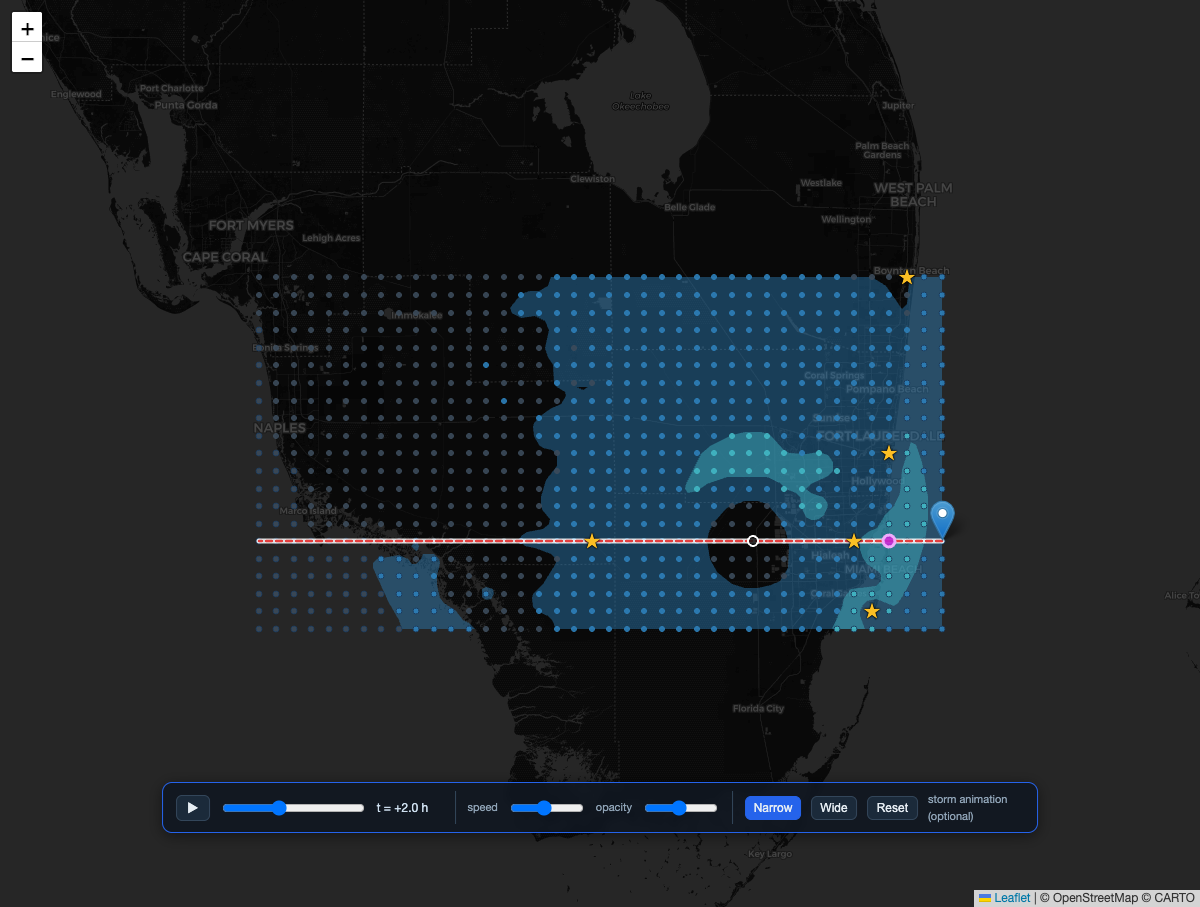
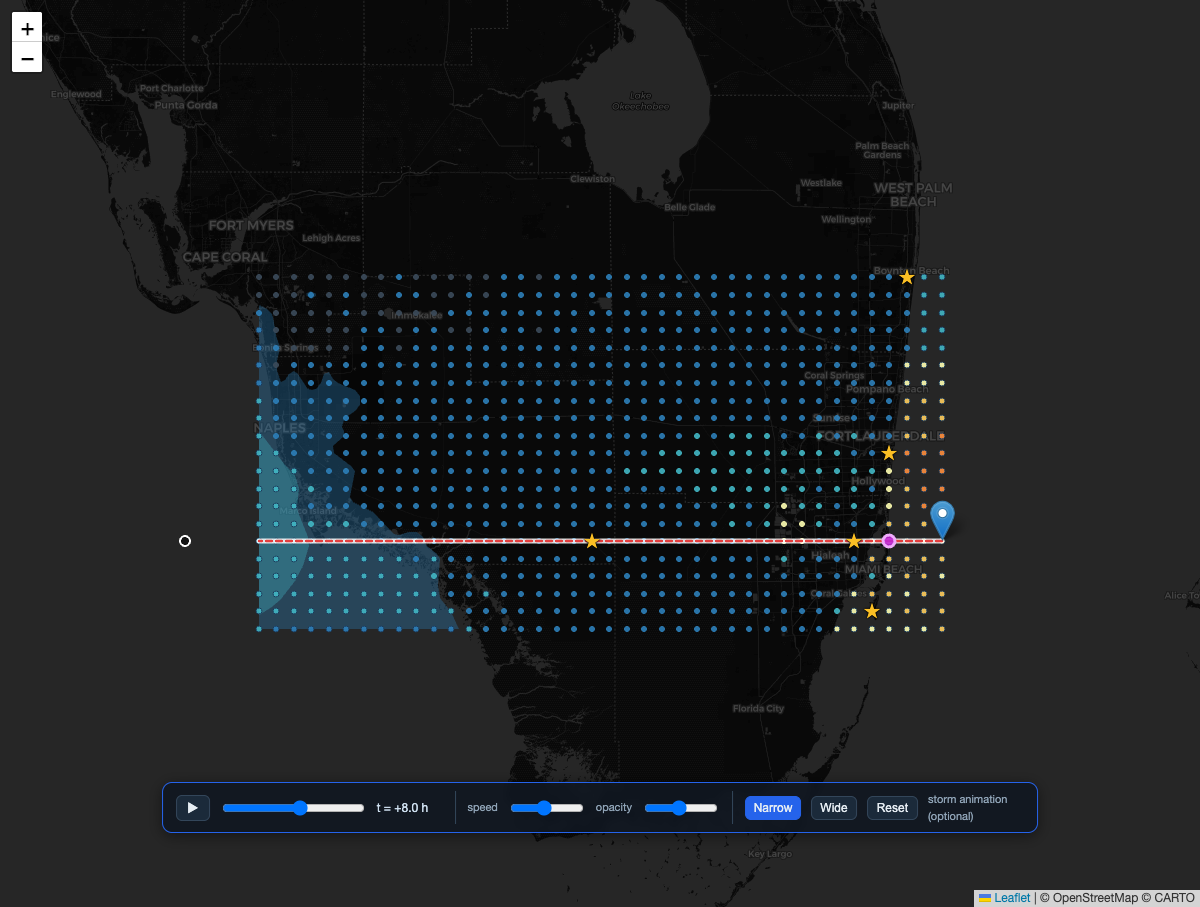
Storm animation: dots paint the running-max peak footprint
Per the meteorologist: the dots should build up the PEAK footprint as the storm
crosses, not show the instantaneous wind (which goes calm again once the storm
passes). Changed the per-frame dot color from instantaneous field[k] to the
running maximum over frames 0..i, so each vertex lights up when the eyewall
arrives and RETAINS its peak. After the storm clears, the dot lattice equals the
static peak-wind footprint (orange near the track, fading north/west). The contour
stays instantaneous so you still watch the storm move.

Verified (tests/auto/test_anim.py): dot (9,6) is calm base at t=-12, lights to
#ffffb2 mid-passage, and STAYS #ffffb2 at t=+24, equal to the static peak color at
that vertex (an instantaneous dot would go calm again). End-frame footprint
screenshot matches the reference. Docs + figure updated.

Changed region(s): [[0.2158, 0.2778, 0.8017, 0.71], [0.2158, 0.8644, 0.2775, 0.8953]]

diff --git a/web/anim.js b/web/anim.js
@@ -172,10 +172,14 @@ function animRenderFrame(i) {
   const thr = WIND_STOPS.map(s => s[0]).filter(v => v > 0);
   state.animContour = buildContourLayer(ext.grid, F, thr, windColor,
     { lattice: ext.lattice, upsample: ANIM.upsample, fillOpacity: ANIM.fillOpacity, pane: "animField" }).addTo(state.map);
-  // dynamic dots: recolor each grid vertex by the INSTANTANEOUS wind at this frame,
-  // so the lattice updates live as the storm passes (offshore ext points have gi<0)
+  // dots PAINT the peak footprint: each vertex shows its running-max wind up to the
+  // current time, so it lights up when the eyewall arrives and RETAINS its peak.
+  // After the storm clears, the lattice equals the static peak-wind footprint (the
+  // contour above stays instantaneous, so you still watch the storm cross).
+  const N = F.length, pk = new Float32Array(N);
+  for (let f = 0; f <= ANIM.i; f++) { const Ff = ANIM.fields[f]; for (let k = 0; k < N; k++) if (Ff[k] > pk[k]) pk[k] = Ff[k]; }
   const gi = ext.gridIdx, mk = state.markers;
-  if (mk) for (let k = 0; k < gi.length; k++) { const g = gi[k]; if (g >= 0) mk[g].setStyle({ fillColor: windColor(F[k]) }); }
+  if (mk) for (let k = 0; k < gi.length; k++) { const g = gi[k]; if (g >= 0) mk[g].setStyle({ fillColor: windColor(pk[k]) }); }
   if (state.layers.trackLines) state.layers.trackLines.forEach(l => l.bringToFront());
   if (state.layers.landfall) state.layers.landfall.bringToFront();
 

diff --git a/tests/auto/test_anim.py b/tests/auto/test_anim.py
@@ -93,17 +93,28 @@ def main():
         if n["npts"] != 840 or abs(n["zoom"] - zoom0) > 0.001:
             fail.append(f"Narrow should return to 840-pt grid at default zoom, got {n}")
 
-        # 3b. dynamic dots: a coastal vertex recolors between frames as the storm passes
+        # 3b. dots paint the PEAK footprint (running max): a vertex is calm at t=-12,
+        # lights up as the storm passes, and STAYS lit at the end (peak retained, not
+        # instantaneous — which would go calm again once the storm clears).
         click("simNarrow")
         dyn = d.execute_script("""
-          const idx = state.grid.points.findIndex(p=>p.ew===6 && p.ns===0);
-          animRenderFrame(0);  const c0 = state.markers[idx].options.fillColor;
-          animRenderFrame(24); const c24 = state.markers[idx].options.fillColor;
-          return [c0, c24];
+          const idx = state.grid.points.findIndex(p=>p.ew===9 && p.ns===6);
+          animRenderFrame(0);  const c0  = state.markers[idx].options.fillColor;
+          animRenderFrame(36); const c36 = state.markers[idx].options.fillColor;
+          animRenderFrame(72); const cEnd = state.markers[idx].options.fillColor;
+          // static peak wind color at this vertex, for comparison
+          const w = computeWindFor('holland','cat5', +document.getElementById('vector').value-1)[idx];
+          return {c0, c36, cEnd, peakColor: windColor(w)};
         """)
-        print("dot color @t-12 vs @t0:", dyn)
-        if dyn[0] == dyn[1]:
-            fail.append(f"grid dot should recolor as the storm passes, got {dyn}")
+        print("dot (9,6) running-max:", dyn)
+        base = "#3b4a5a"
+        if dyn["c0"] != base:
+            fail.append(f"dot should be calm (base) at t=-12, got {dyn['c0']}")
+        if dyn["cEnd"] == base:
+            fail.append("dot should stay LIT after the storm clears (running max), not calm")
+        if dyn["cEnd"] != dyn["peakColor"]:
+            fail.append(f"end-of-animation dot should equal the static peak color "
+                        f"{dyn['peakColor']}, got {dyn['cEnd']}")
 
         # 4. Reset exits + restores
         click("simReset")

diff --git a/docs/FormS6.tex b/docs/FormS6.tex
@@ -722,10 +722,11 @@ the time slider ($t=-12\to+24$\,h); \textbf{speed} and \textbf{opacity} sliders 
 the playback rate and how far the grid points show through the field. Two view
 buttons choose the extent: \textbf{Narrow} (the default) renders only over the grid
 at the default zoom, so the storm enters from the east edge near $t=0$ and the grid
-points remain visible beneath the translucent bands; each dot also \emph{recolours
-to the instantaneous wind} at its vertex, so the whole lattice updates live as the
-eye passes---the calm eye reads as a dark hole in the dots (Figure~\ref{fig:anim},
-right);
+points remain visible on top of the translucent bands; each dot \emph{paints its
+running-maximum wind}---it lights up when the eyewall arrives and \emph{retains} its
+peak---so the footprint builds up behind the moving storm and, once the storm clears,
+the lattice equals the static peak-wind footprint of Section~\ref{sec:loss}
+(Figure~\ref{fig:anim}, right);
 \textbf{Wide} extends the render domain east into the Atlantic---sized per storm to
 $12V_T+90$\,mi, since at $t=-12$ the eye is offshore ($\mathrm{ewc}=V_T t<0$)---and
 zooms the map out so the full approach is visible (left). The storm then sweeps west,
@@ -744,11 +745,12 @@ default zoom.
 \caption{Optional storm animation (Holland, Category~5). Left (\textbf{Wide}):
 $t=-12$\,h---the instantaneous windfield offshore over the Atlantic as the storm
 approaches, the map zoomed out over the extended domain. Right (\textbf{Narrow},
-the default): the eye over the grid with the eyewall onshore---the translucent bands
-let the grid points show through, and each dot is recoloured to the instantaneous
-wind (the calm eye a dark hole in the lattice). Speed / opacity sliders and
-Narrow/Wide buttons sit on the control bar; Reset restores the static peak-wind
-footprint at the default zoom.}
+the default): mid-passage---the instantaneous storm (contour) has moved on while the
+dots behind it have painted in their running-maximum wind (the peak footprint builds
+up east-to-west and is retained; orange = strongest peak near the track). By $t=+24$
+the dots equal the static peak-wind footprint. Speed / opacity sliders and
+Narrow/Wide buttons sit on the control bar; Reset restores the static footprint at
+the default zoom.}
 \label{fig:anim}
 \end{figure}
 

diff --git a/projectplan.md b/projectplan.md
@@ -746,6 +746,14 @@ with the instantaneous field and reverts on stop.
   overlayPane markers at 400) via a new `buildContourLayer` `opts.pane` — the dynamic
   dots now sit on top of the field and their live recolouring is clearly visible (the
   calm eye reads as a dark hole in the lattice).
+- **Running-max dots (round 5):** the meteorologist clarified the dots should build up
+  the PEAK footprint, not show instantaneous wind (which goes calm behind the storm).
+  Changed the per-frame dot colour from instantaneous `F[k]` to the **running maximum
+  up to the current frame** (`max` over `fields[0..i]`), so each vertex lights up when
+  the eyewall arrives and retains its peak; after the storm clears, the lattice equals
+  the static peak-wind footprint. Contour stays instantaneous (still watch the storm
+  cross). Verified: dot (9,6) goes base → `#ffffb2` and stays, equal to the static
+  peak colour; end-frame footprint screenshot matches the reference.
 
 ---
 